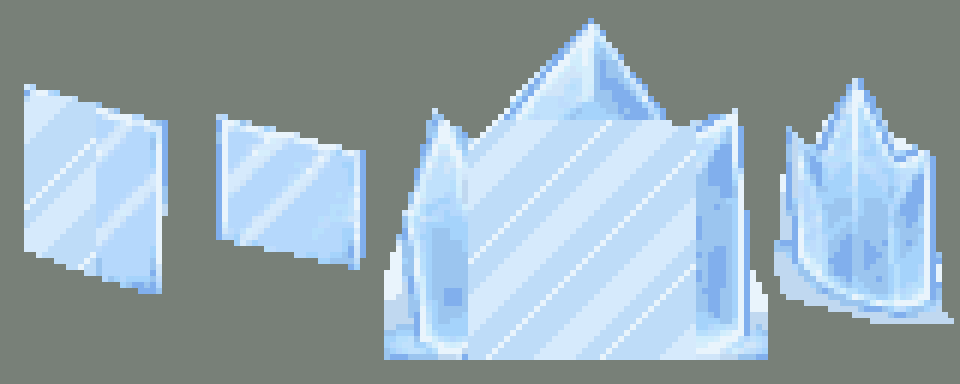
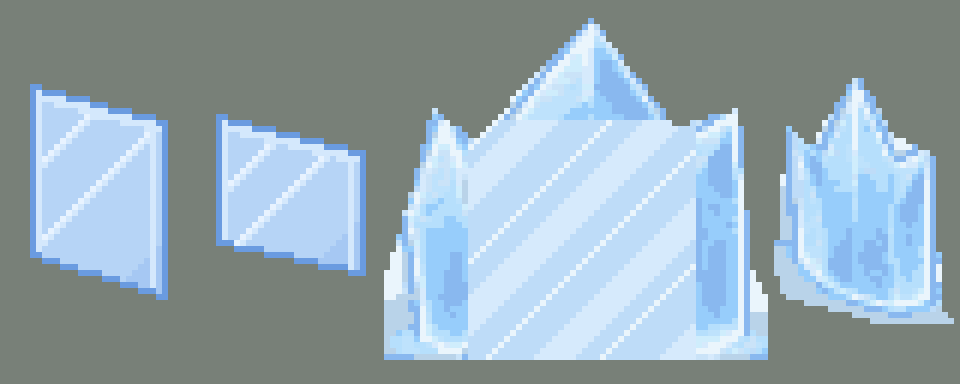
Quetzal: placa do Protetor Glacial redesenhada igual ao print
A redução do print apagava o contorno fino e deixava a borda serrilhada.
As duas placas agora são desenhadas pixel a pixel nas medidas do print,
com cores próprias na paleta.

diff --git a/game.js b/game.js
@@ -1226,8 +1226,8 @@ const QZ_NUVEM = {
[8 lines of base64/hex data omitted]
     [0x1FEF150, "39200010ee021240003c"],
     [0x1FEF15C, "39200010ec021240003c"],

diff --git a/index.html b/index.html
@@ -8,8 +8,8 @@
 <link rel="icon" href="icon-192.png">
 <meta name="theme-color" content="#161629">
 <!-- versão dos arquivos: muda a cada publicação, para o celular não misturar arquivo velho com novo -->
-<script>const ASSET_V = "20261101000144";</script>
-<link rel="stylesheet" href="style.css?v=20261101000144">
+<script>const ASSET_V = "20261101001050";</script>
+<link rel="stylesheet" href="style.css?v=20261101001050">
 </head>
 <body>
 <div id="conn" class="conn hidden">Sem conexão com o kirbynet. A janela do Python está aberta?</div>
@@ -208,16 +208,16 @@
       <span id="cheats-msg" class="sub"></span><button id="cheats-apply">Aplicar</button></div>
   </div>
 </div>
-<script src="system.js?v=20261101000144"></script>
-<script src="ghost-core.js?v=20261101000144"></script>   <!-- SNES, Mundo livre: onde está o boneco de cada um -->
-<script src="linkhle.js?v=20261101000144"></script>   <!-- GBA: cabo link pela internet (coop do Pokémon Quetzal) -->
+<script src="system.js?v=20261101001050"></script>
+<script src="ghost-core.js?v=20261101001050"></script>   <!-- SNES, Mundo livre: onde está o boneco de cada um -->
+<script src="linkhle.js?v=20261101001050"></script>   <!-- GBA: cabo link pela internet (coop do Pokémon Quetzal) -->
 <script>document.getElementById("sys").value = SYS.id;</script>
-<script src="peerjs.min.js?v=20261101000144"></script>
-<script src="sitenet.js?v=20261101000144"></script>
-<script src="cloud.js?v=20261101000144"></script>
-<script src="app.js?v=20261101000144"></script>
-<script src="game.js?v=20261101000144"></script>
-<script src="guest.js?v=20261101000144"></script>
+<script src="peerjs.min.js?v=20261101001050"></script>
+<script src="sitenet.js?v=20261101001050"></script>
+<script src="cloud.js?v=20261101001050"></script>
+<script src="app.js?v=20261101001050"></script>
+<script src="game.js?v=20261101001050"></script>
+<script src="guest.js?v=20261101001050"></script>
 <script>touchInit(); updateSoundButton(); if (!GUEST) connect();</script>
 </body>
 </html>

diff --git a/hack-fonte/nuvem/protetor/gerar.py b/hack-fonte/nuvem/protetor/gerar.py
@@ -3,7 +3,6 @@
 import struct
 from PIL import Image, ImageDraw
 D = 'C:/Users/Sandro/Downloads/'
-F1 = Image.open(D + 'Batalha Pokémon com Escudos de Gelo.png').convert('RGB')    # fase 1: placa
 F2 = Image.open(D + 'Batalha Pixelada com Escudos de Gelo.png').convert('RGB')   # fase 2: coroa
 ESC = 6.4
 
@@ -25,27 +24,47 @@ def corta(img, poli, larg, alt, cx, cy):
 def faceta(x, y):
     return (235, 245, 255) if (x + y) % 19 == 0 else (214, 234, 252) if (x + y) // 7 % 3 == 0 else (190, 220, 248)
 
-# o corpo do Cubchoo aparece nos dois recortes de costas: vira gelo, senão apareceria num aliado de outra espécie
-PLACA = corta(F1, [(492, 462), (646, 505), (634, 690), (490, 640)], 32, 64, 568, 578)
-for y in range(16, 54):
-    for x in range(3, 16):
-        if PLACA[y * 32 + x] is not None: PLACA[y * 32 + x] = faceta(x, y)
-PLACA_I = corta(F1, [(925, 308), (1082, 350), (1078, 474), (925, 442)], 32, 64, 1000, 392)
+# placa: a linha fina do contorno some ao reduzir o print (ESCUDO OFC.png), então ela é desenhada pixel a pixel nas
+# medidas dele. Cantos em relação ao sprite 32x64 (cima-esq, cima-dir, baixo-dir, baixo-esq).
+CONTORNO, CORPO, CORPO2, CLARO, BRANCO = (106, 155, 224), (182, 212, 246), (166, 200, 243), (212, 232, 252), (232, 243, 255)
+def placa(cantos, faixas):
+    img = Image.new('RGB', (32, 64), (0, 0, 0))
+    dr = ImageDraw.Draw(img)
+    dr.polygon(cantos, fill=CORPO, outline=CONTORNO)
+    o = [None] * (32 * 64)
+    (xe, ye), (xd, yd), (xd2, yb), (xe2, yb2) = cantos
+    for y in range(64):
+        for x in range(32):
+            c = img.getpixel((x, y))
+            if c == (0, 0, 0): continue
+            if c == CORPO:
+                d = x + y
+                if d >= sum(cantos[2]) - 9: c = CORPO2                     # canto de baixo mais fundo
+                for a, l in faixas:
+                    if a <= d < a + l: c = BRANCO if d - a < l - 1 else CLARO   # reflexos em diagonal
+                if x == xe + 1 or x == xd - 2: c = CLARO                   # brilho na beira esquerda e a dobra da direita
+                topo = ye + (yd - ye) * (x - xe) / (xd - xe)
+                if y <= topo + 2: c = CLARO                                # brilho logo abaixo do contorno de cima
+            o[y * 32 + x] = c
+    return o
+PLACA = placa([(5, 14), (27, 20), (27, 49), (5, 42)], ((33, 2), (46, 2)))
+PLACA_I = placa([(4, 19), (28, 25), (28, 45), (4, 40)], ((36, 2), (47, 2)))
 COROA = corta(F2, [(268, 575), (302, 450), (345, 485), (470, 352), (560, 470), (628, 450), (640, 620), (690, 716), (225, 716)], 64, 64, 455, 540)
 for y in range(20, 64):
     for x in range(14, 52):
         if COROA[y * 64 + x] is not None: COROA[y * 64 + x] = faceta(x, y)
 COROA_I = corta(F2, [(895, 412), (908, 258), (932, 282), (982, 205), (1022, 272), (1062, 288), (1072, 455), (1084, 470), (1010, 472), (900, 442)], 32, 64, 990, 332)
 
-# paleta única de 15 cores tirada dos próprios desenhos
-todos = [p for img in (PLACA, PLACA_I, COROA, COROA_I) for p in img if p is not None]
+# paleta de 15 cores: as 5 da placa, fixas, e 10 tiradas da coroa
+todos = [p for img in (COROA, COROA_I) for p in img if p is not None]
 amostra = Image.new('RGB', (len(todos), 1)); amostra.putdata(todos)
-q = amostra.quantize(15, Image.MEDIANCUT)
-pal = q.getpalette()[:45]
-cores = [tuple(pal[i:i + 3]) for i in range(0, 45, 3)]
+q = amostra.quantize(10, Image.MEDIANCUT)
+pal = q.getpalette()[:30]
+cores = [CONTORNO, CORPO, CORPO2, CLARO, BRANCO] + [tuple(pal[i:i + 3]) for i in range(0, 30, 3)]
 def idx(p):
     if p is None: return 0
-    return 1 + min(range(15), key=lambda k: sum((a - b) ** 2 for a, b in zip(p, cores[k])))
+    if p in cores[:5]: return 1 + cores.index(p)
+    return 6 + min(range(10), key=lambda k: sum((a - b) ** 2 for a, b in zip(p, cores[5 + k])))
 def bpp4(img, larg, alt):
     px = [idx(p) for p in img]
     s = bytearray()
